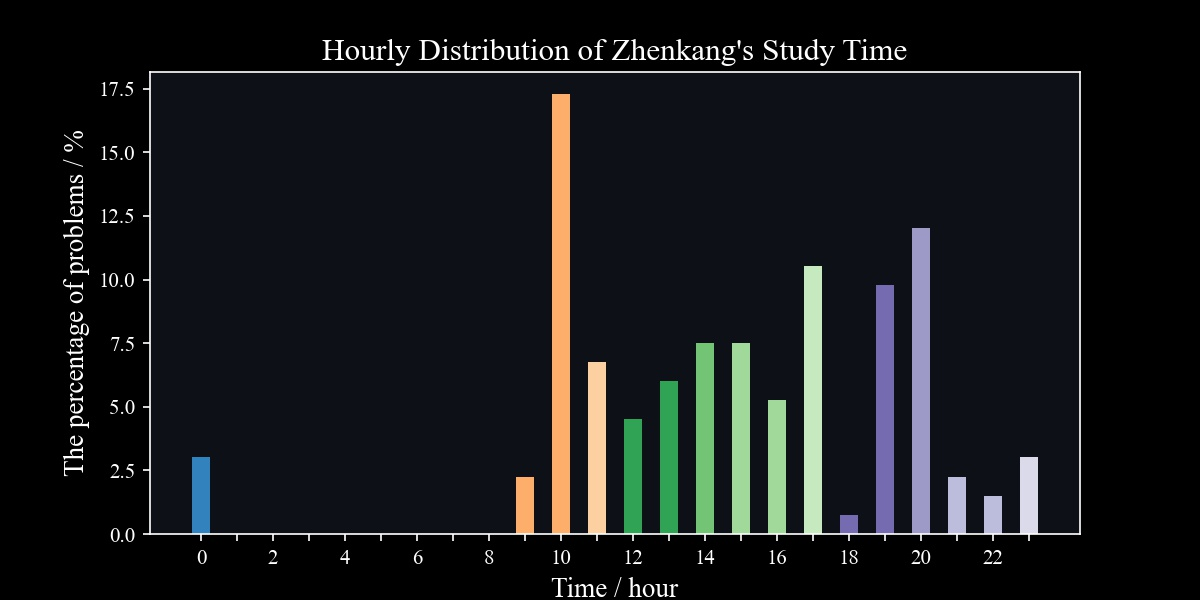
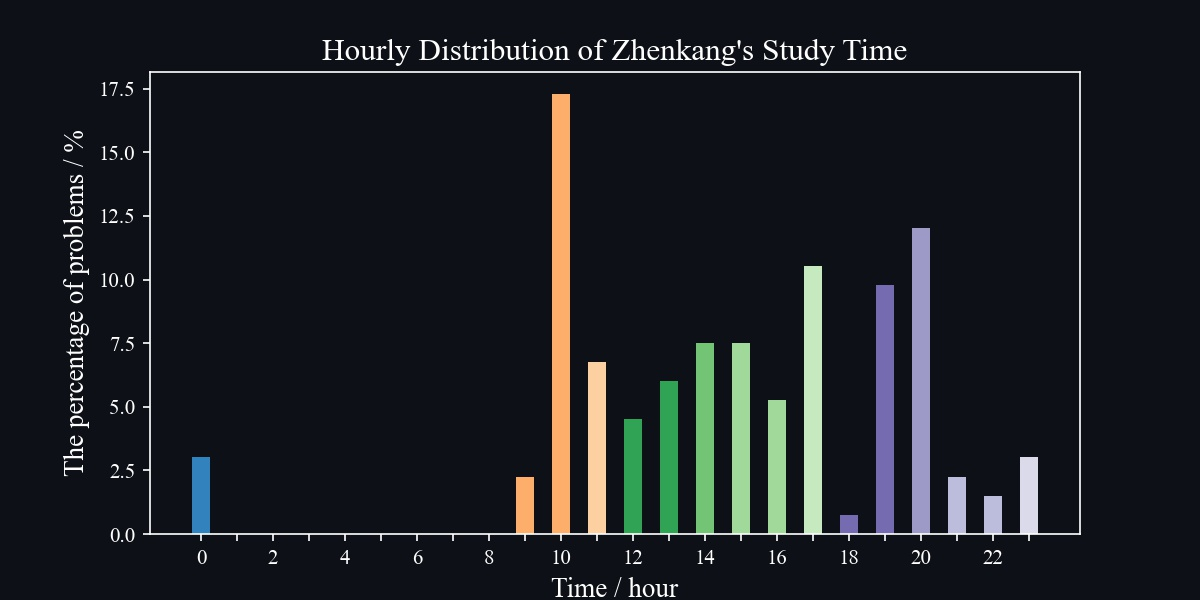
new figure

diff --git a/myFunction.py b/myFunction.py
@@ -131,7 +131,7 @@ if __name__ == '__main__':
     plt.xlabel('Time / hour',fontsize=fontSize+3)
     plt.ylabel('The percentage of problems / %',fontsize=fontSize+3)
     plt.title("Hourly Distribution of Zhenkang's Study Time", fontsize=fontSize+5) # 设置标题
-    plt.savefig('.//image//HourlyDistribution.jpg', dpi=myDPI)
+    plt.savefig('.//image//HourlyDistribution.jpg', dpi=myDPI,facecolor=githubColor)
     
     # plt.xticks(fontsize = 30)
     
@@ -143,6 +143,7 @@ if __name__ == '__main__':
     monthsColor = hourscmap([ i/12 * 4 / 5 for i in range(12)])
     ax.bar(months, monthslist_percent, width=0.5, label="Product_1", color=monthsColor)
     ax.set_facecolor(githubColor)
+    fig_months.set_facecolor(githubColor)
     # plt.plot(hourslist)
     print(hourslist)
     print(yearsDict)
@@ -154,7 +155,7 @@ if __name__ == '__main__':
     plt.xlabel('Time / month',fontsize=fontSize+3)
     plt.ylabel('The percentage of problems / %',fontsize=fontSize+3)
     plt.title("Monthly Distribution of Zhenkang's Study Time", fontsize=fontSize+5) # 设置标题
-    plt.savefig('.//image//MonthlyDistribution.jpg', dpi=myDPI)
+    plt.savefig('.//image//MonthlyDistribution.jpg', dpi=myDPI,facecolor=githubColor)
     # plt.xticks(fontsize = 30)
     
     
